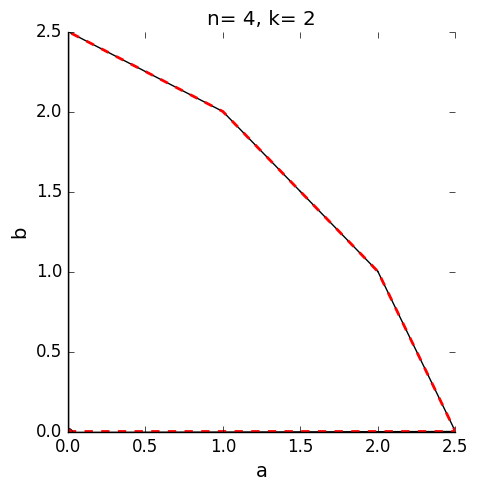
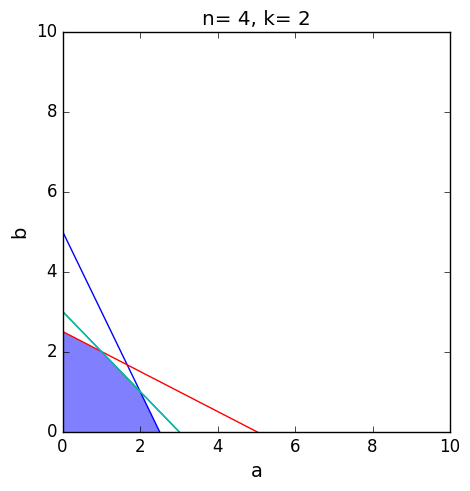
Added capacity region plotting using the hyperplanes; Ax <= b.

diff --git a/cap_finder.py b/cap_finder.py
@@ -1,6 +1,7 @@
 import math, scipy, cvxpy, pprint, itertools
 import numpy as np
-from scipy.spatial import ConvexHull
+from scipy import spatial
+from fillplots import plot_regions
 
 from plot_utils import *
 from conf_gen import *
@@ -84,7 +85,7 @@ class CapFinder(object):
     blog(r=r, C=C, M=M)
     return r, M, C
   
-  def cap_point_l(self):
+  def cap_boundary_point_l(self):
     r, M, C = cf.r_M_C()
     p_l = []
     
@@ -113,26 +114,58 @@ class CapFinder(object):
       counter += 1
     return p_l
   
-  def plot_2d_servcap(self):
-    point_l = self.cap_point_l()
+  def cap_hyperplane(self):
+    point_l = self.cap_boundary_point_l()
     point_l.append((0, 0))
-    # print("point_l= {}".format(point_l) )
+    points_inrows = np.array(point_l).reshape((len(point_l), self.k))
+    hull = scipy.spatial.ConvexHull(points_inrows)
     
-    # x_l, y_l = [], []
-    # for x_y in point_l:
-    #   x_l.append(x_y[0] )
-    #   y_l.append(x_y[1] )
-    # plot.plot(x_l, y_l, c=NICE_BLUE, marker='o', ls=':')
+    # `hull` := {x| Ax <= b}
+    m, n = hull.equations.shape
+    A = np.mat(hull.equations[:, 0:n-1] )
+    b = np.mat(-hull.equations[:, n-1] ).T
+    # blog(A=A, b=b)
+    return A, b
+  
+  def plot_2d_servcap(self):
+    '''
+    point_l = self.cap_boundary_point_l()
+    point_l.append((0, 0))
     
     points_inrows = np.array(point_l).reshape((len(point_l), self.k))
-    # print("points_inrows= \n{}".format(points_inrows) )
-    hull = ConvexHull(points_inrows)
+    hull = scipy.spatial.ConvexHull(points_inrows)
     for simplex in hull.simplices:
-      plot.plot(points_inrows[simplex, 0], points_inrows[simplex, 1], 'k-')
-    plot.plot(points_inrows[hull.vertices, 0], points_inrows[hull.vertices, 1], 'r--', lw=2)
-    plot.plot(points_inrows[hull.vertices[0], 0], points_inrows[hull.vertices[0], 1], 'ro')
+      # print("x_l= {}, y_l= {}".format(points_inrows[simplex, 0], points_inrows[simplex, 1] ) )
+      plot.plot(points_inrows[simplex, 0], points_inrows[simplex, 1], c=NICE_BLUE, marker='o', ls='-', lw=3)
+    # plot.plot(points_inrows[hull.vertices, 0], points_inrows[hull.vertices, 1], 'r--', lw=2)
+    # plot.plot(points_inrows[hull.vertices[0], 0], points_inrows[hull.vertices[0], 1], 'ro')
     
-    prettify(plot.gca() )
+    plot.fill(points_inrows[simplex, 0], points_inrows[simplex, 1], c=NICE_BLUE, alpha=0.5)
+    '''
+    
+    # plot_regions([[(lambda x: (1.0 - x ** 2) ** 0.5, True), (lambda x: x,) ] ], xlim=(0, 1), ylim=(0, 1) )
+    A, b = self.cap_hyperplane()
+    blog(A=A, b=b)
+    # for i in range(A.shape[0] ):
+    #   print("A[i, 0]= {}, A[i, 1]= {}".format(A[i, 0], A[i, 1] ) )
+    
+    eq_l = [lambda x, i=i: b[i, 0]/A[i, 1] - A[i, 0]/A[i, 1]*x for i in range(A.shape[0] ) if A[i, 0] > 0.001]
+    x_l = [x for x in np.linspace(0, 5, 20) ]
+    # for i, eq in enumerate(eq_l):
+    #   plot.plot(x_l, [eq(x) for x in x_l], label='i= {}'.format(i), c=next(dark_color), marker='.', ls=':')
+    # plot.xlim((0, 10))
+    # plot.ylim((0, 10))
+    
+    plot.legend()
+    plot_regions(
+      [[(eq, True) for eq in eq_l] ],
+      xlim=(0, 10), ylim=(0, 10) )
+    
+    # plot_regions(
+    #   [[(lambda x: 1 - x, True), (lambda x: 2 - 4*x, True) ] ],
+    #   xlim=(0, 1), ylim=(0, 1) )
+    
+    # prettify(plot.gca() )
     plot.title('n= {}, k= {}'.format(self.n, self.k) )
     plot.xlabel('a', fontsize=14)
     plot.ylabel('b', fontsize=14)
@@ -143,9 +176,9 @@ class CapFinder(object):
     log(INFO, "done.")
 
 if __name__ == "__main__":
-  # G = conf_mds_matrix(3, k=2)
   G = conf_mds_matrix(5, k=2)
   cf = CapFinder(G)
   # r, M, C = cf.r_M_C()
-  # cf.cap_point_l()
+  # cf.cap_boundary_point_l()
   cf.plot_2d_servcap()
+  # cf.cap_hyperplane()
